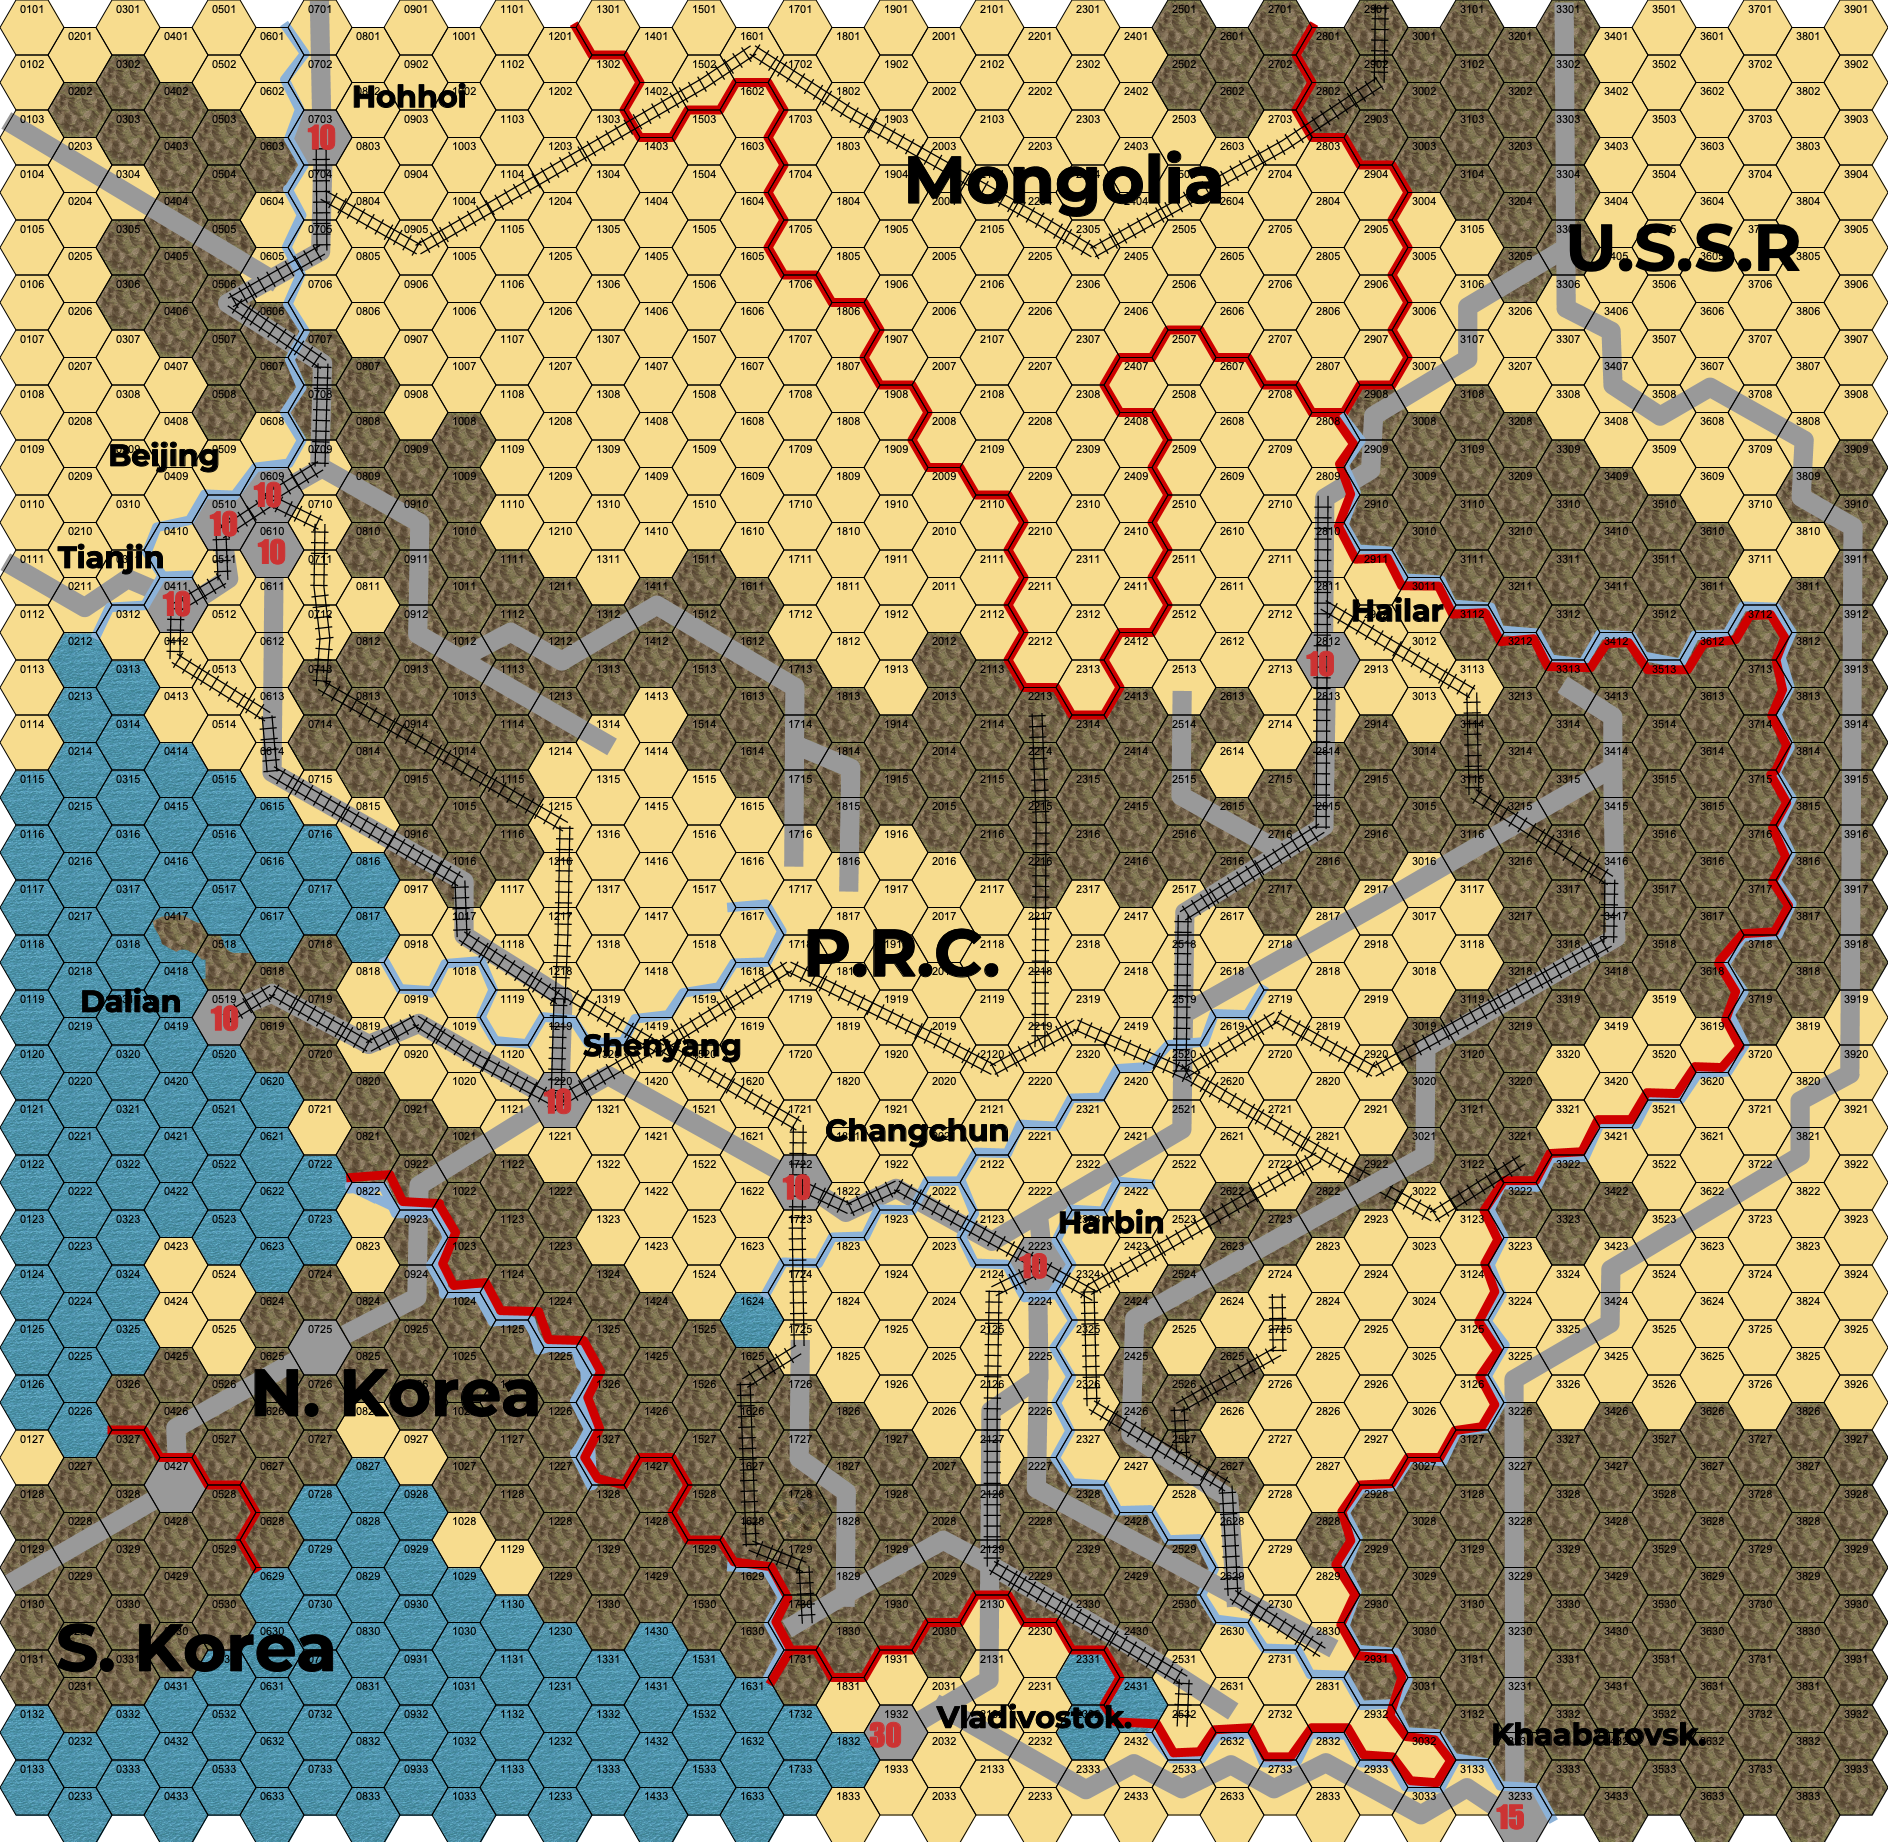
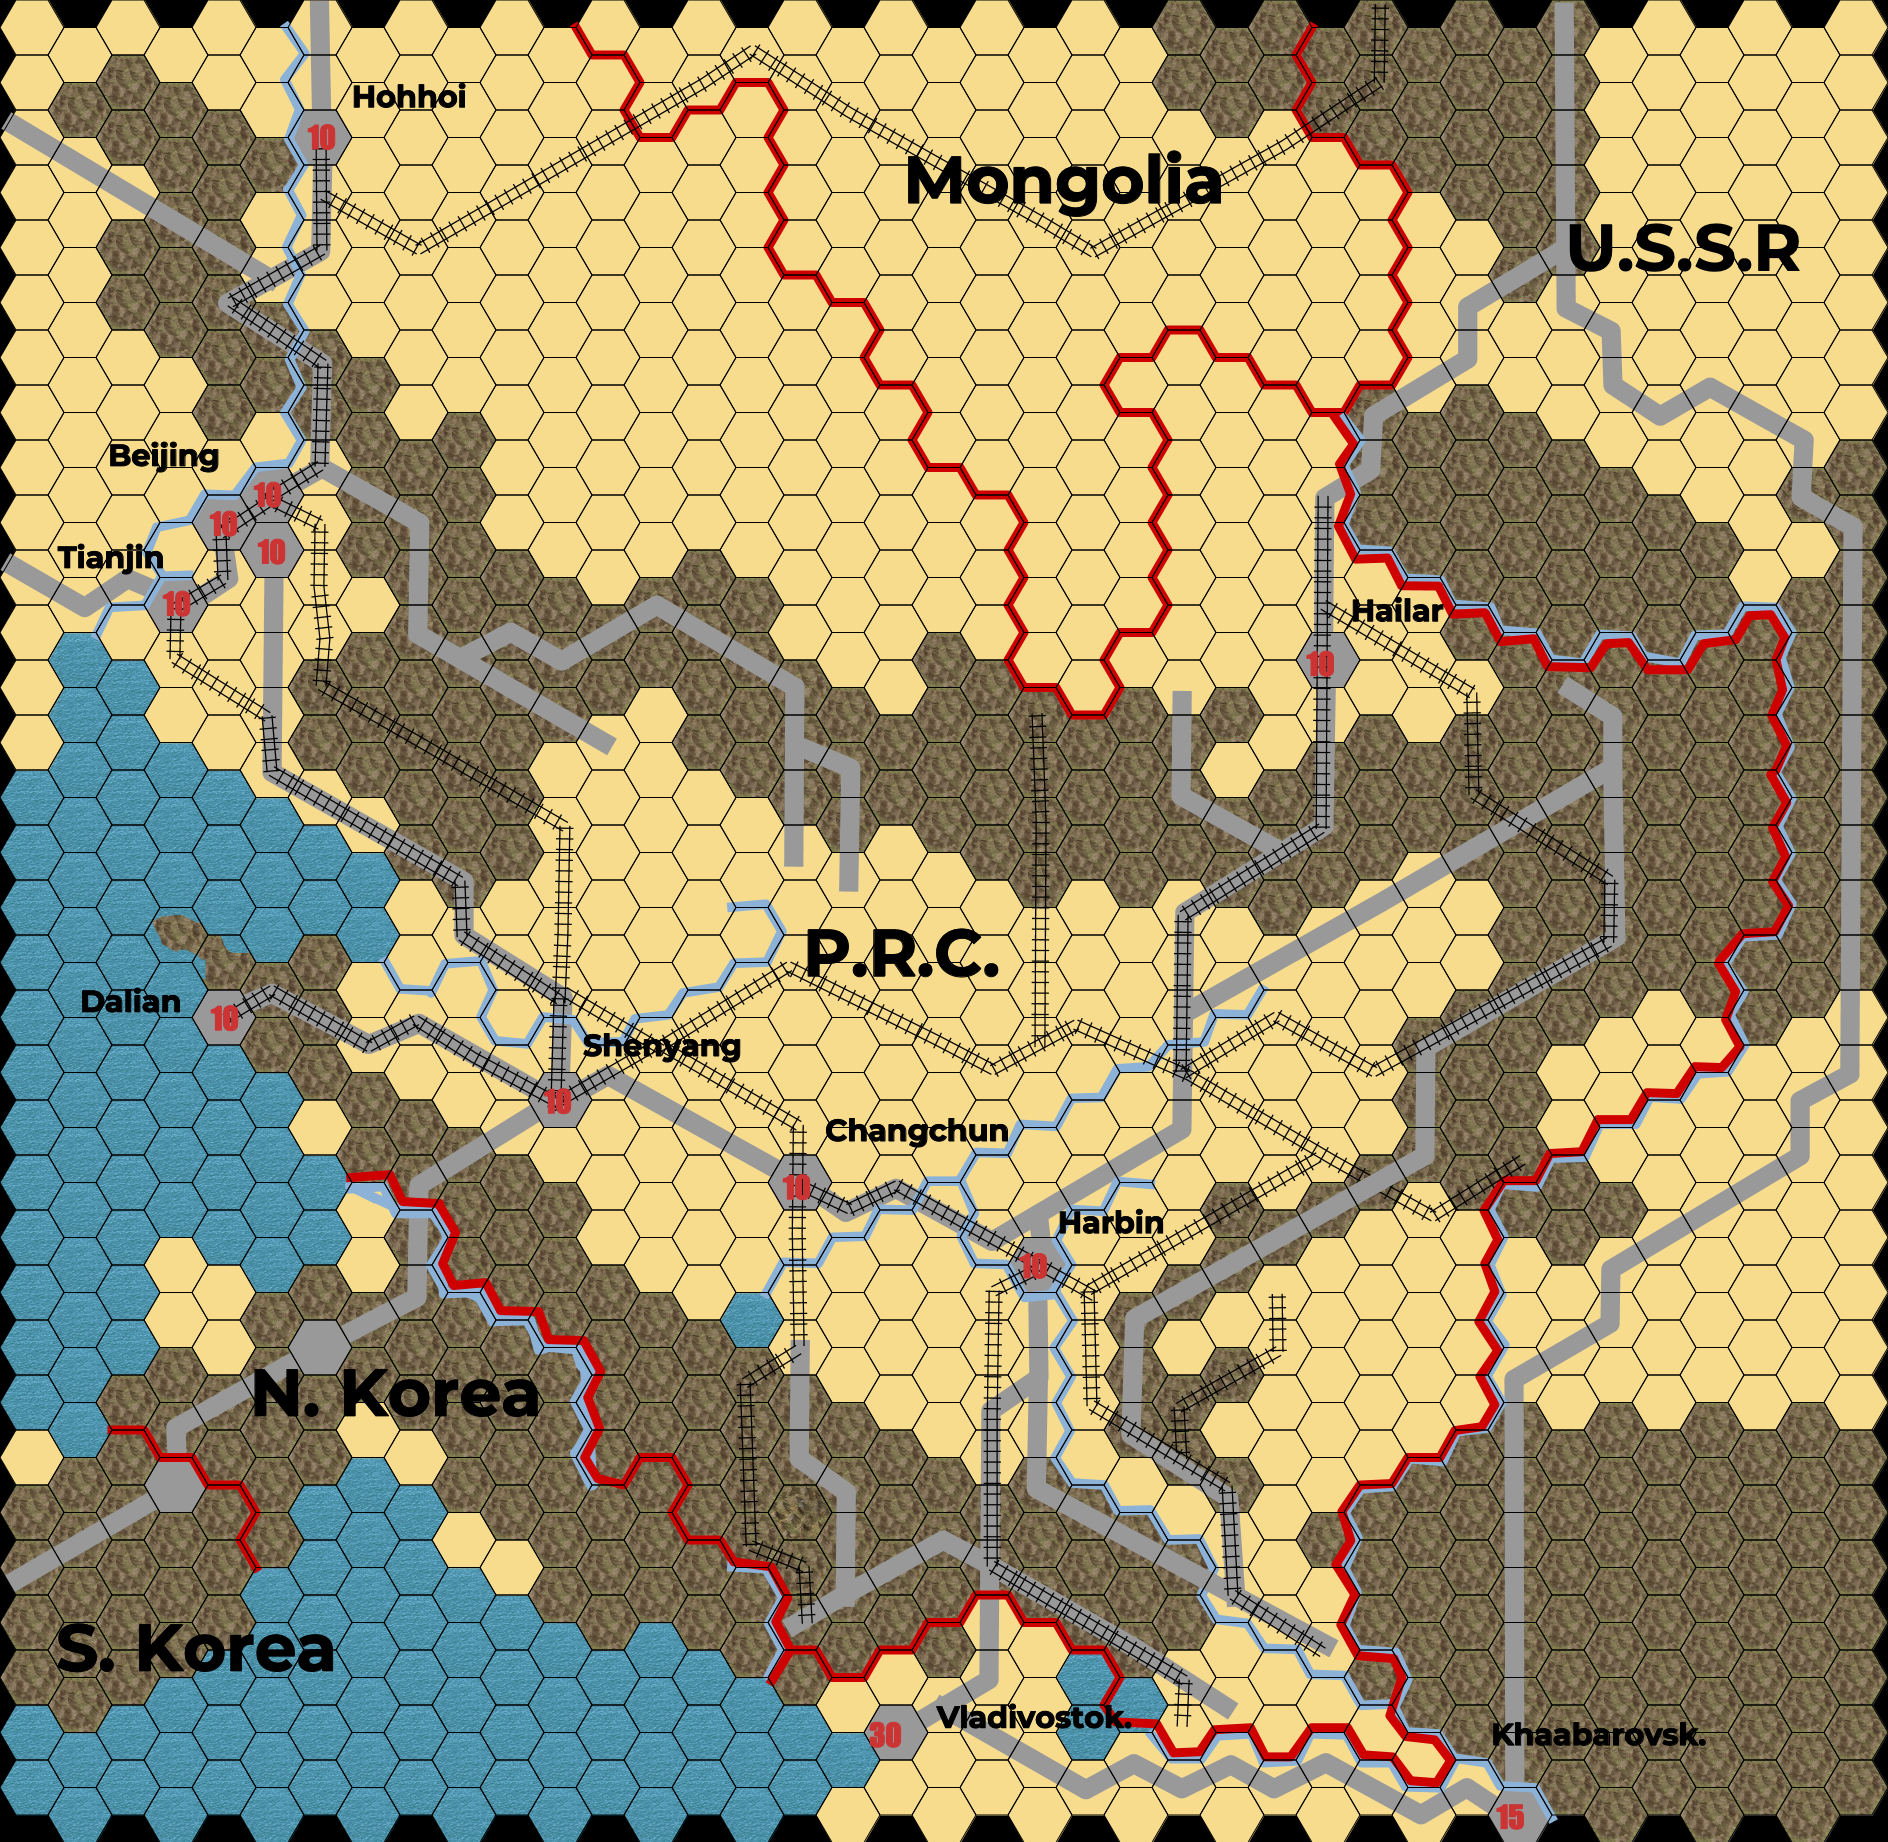
manchuria has real rail movement
fixed bug in tincans

Changed region(s): [[0.0, 0.0, 1.0, 1.0]]

diff --git a/Wargame/TMCW/NorthVsSouth/local.scss b/Wargame/TMCW/NorthVsSouth/local.scss
@@ -29,6 +29,25 @@
 #options-pane{
   display:none;
 }
+
+#main-viewer header#header #headerContent{
+  font-family: Montserrat, sans-serif;
+  .top-menu {
+    font-size:28px;
+    font-weight: 500;
+    .WrapperLabel {
+      font-weight: 500;
+    }
+  }
+  .dropDown .subMenu .dropDown{
+    font-weight:500;
+    font-size:22px;
+  }
+  #statusWrapper{
+    font-size:14px;
+  }
+}
+
 .cool-header {
   font-size: 22px;
   background: rgba(255, 255, 255, .9);
@@ -45,13 +64,8 @@
 }
 .cool-box {
   font-size: 22px;
-  background: rgba(255, 255, 255, .9);
-  border: 1px solid #333;
-  border-radius: 15px;
-  margin: 40px;
-  padding: 20px;
-  box-shadow: 10px 10px 10px rgba(20, 20, 20, .7);
-  margin: 0 auto;
+  background: white;
+  padding: 10px;
 }
 #floatMessage{
   display:block;

diff --git a/Wargame/TMCW/Chawinda1965/chawinda1965.scss b/Wargame/TMCW/Chawinda1965/chawinda1965.scss
@@ -24,6 +24,25 @@
 @include player(pakistani, Pakistani, $pakistaniColor);
 @include headerColor(Indian, $indianColor, $indianColor);
 @include headerColor(Pakistani, $pakistaniColor, $pakistaniColor);
+
+#main-viewer header#header #headerContent{
+  font-family: Montserrat, sans-serif;
+  .top-menu {
+    font-size:28px;
+    font-weight: 500;
+    .WrapperLabel {
+      font-weight: 500;
+    }
+  }
+  .dropDown .subMenu .dropDown{
+    font-weight:500;
+    font-size:22px;
+  }
+  #statusWrapper{
+    font-size:14px;
+  }
+}
+
 #crtWrapper #crt{
   width: 310px;
 }

diff --git a/Wargame/TMCW/Manchuria1976/Unit.php b/Wargame/TMCW/Manchuria1976/Unit.php
@@ -1,6 +1,6 @@
 <?php
 namespace Wargame\TMCW\Manchuria1976;
-
+use Wargame\Battle;
 /**
  * Copyright 2015 David Rodal
  * User: David Markarian Rodal
@@ -22,11 +22,38 @@ namespace Wargame\TMCW\Manchuria1976;
  */
 class Unit extends \Wargame\Unit implements \JsonSerializable
 {
+    public $saveMaxMove = false;
+    public $railMode = false;
+
     public    function set($unitId, $unitName, $unitForceId, $unitHexagon, $unitImage, $unitMaxStrength, $unitMinStrength, $unitMaxMove, $isReduced, $unitStatus, $unitReinforceZone, $unitReinforceTurn, $range, $nationality = "neutral", $forceMarch, $class, $unitDesig){
         parent::set($unitId, $unitName, $unitForceId, $unitHexagon, $unitImage, $unitMaxStrength, $unitMinStrength, $unitMaxMove, $isReduced, $unitStatus, $unitReinforceZone, $unitReinforceTurn, $range, $nationality, $forceMarch, $class, $unitDesig);
         if($this->class === 'gorilla'){
             $this->noZoc = true;
         }
+    }
+
+
+    public function railMove(bool $mode)
+    {
+        $b = Battle::getBattle();
+        $turn = $b->gameRules->turn;
+                if($this->railMode === false){
+                    if($b->terrain->terrainIsHex($this->hexagon->name, 'rr') && $this->forceId === Manchuria1976::PRC_FORCE){
+                        $this->saveMaxMove = $this->maxMove;
+                        $this->maxMove = 30;
+                        $this->forceMarch = true;
+                        $this->saveClass = $this->class;
+                        $this->class = "rr";
+                        $this->railMode = true;
+                        $b->moveRules->oneHex = false;
+                        return;
+                    }
+                }else{
+                    $b->moveRules->oneHex = true;
+                    $this->recover();
+                }
+            $this->forceMarch = true;
+
     }
 
     function getReplacing( $hexagon)
@@ -37,4 +64,14 @@ class Unit extends \Wargame\Unit implements \JsonSerializable
         }
         return false;
     }
+    public function recover(){
+        if($this->railMode){
+            $this->railMode = false;
+            $this->maxMove = $this->saveMaxMove;
+            $this->class = $this->saveClass;
+            $this->saveMaxMove = $this->saveClass = false;
+            $this->forceMarch = true;
+        }
+    }
+
 }

diff --git a/Wargame/Terrain.php b/Wargame/Terrain.php
@@ -429,7 +429,7 @@ class Terrain implements \JsonSerializable
 
         foreach ($terrains as $terrainFeature => $val) {
             /* @var TerrainFeature $feature */
-            if ($terrainFeature == "road" || $terrainFeature == "trail" || $terrainFeature == "secondaryroad") {
+            if ($terrainFeature == "road" || $terrainFeature == "trail" || $terrainFeature == "secondaryroad" || $terrainFeature == "rr") {
                 continue;
             }
 
@@ -551,13 +551,17 @@ class Terrain implements \JsonSerializable
 
         // if road, or trail,override terrain,  add fordCost where needed
         $terrainCode = $this->getTerrainCodeXY($hexsideX,$hexsideY);
-        if($railMove && (!empty($terrainCode->road) || !empty($terrainCode->trail) || !empty($terrainCode->ford) || !empty($terrainCode->secondaryroad))){
+        if($railMove && (!empty($terrainCode->road) || !empty($terrainCode->trail) || !empty($terrainCode->ford) || !empty($terrainCode->rr) || !empty($terrainCode->secondaryroad))){
             $roadCost = $this->getTerrainCodeUnitCost('road',$unit);
             $trailCost = $this->getTerrainCodeUnitCost('trail',$unit);
             $fordCost = $this->getTerrainCodeUnitCost('ford',$unit);
             $secondaryroad = $this->getTerrainCodeUnitCost('secondaryroad',$unit);
+            $rrCost = $this->getTerrainCodeUnitCost('rr',$unit);
 
             $moveCost = $roadCost;
+            if(!empty($terrainCode->rr)){
+                $moveCost = $rrCost;
+            }
             if(!empty($terrainCode->trail)){
                 $moveCost = $trailCost;
             }

diff --git a/Wargame/TMCW/Manchuria1976/Manchuria1976.php b/Wargame/TMCW/Manchuria1976/Manchuria1976.php
@@ -49,6 +49,8 @@ class Manchuria1976 extends \Wargame\ModernLandBattle
 
 
     function terrainGen($mapDoc, $terrainDoc){
+        $this->terrain->addTerrainFeature("rr", "rr", "r", .5, 0, 0, false);
+
         parent::TerrainGen($mapDoc, $terrainDoc);
         $this->terrain->addTerrainFeature("offmap", "offmap", "o", 1, 0, 0, true);
         $this->terrain->addTerrainFeature("blocked", "blocked", "b", 1, 0, 0, true);
@@ -59,6 +61,11 @@ class Manchuria1976 extends \Wargame\ModernLandBattle
         $this->terrain->addTerrainFeature("river", "Martian River", "v", 0, 1, 1, true);
         $this->terrain->addTerrainFeature("mountain", "mountain", "g", 1.5, 0, 2, true);
         $this->terrain->addAltEntranceCost('mountain', 'mech', 6);
+
+        $this->terrain->addAltEntranceCost("clear", 'rr', "blocked");
+        $this->terrain->addAltEntranceCost("mountain", 'rr', "blocked");
+        $this->terrain->addAltEntranceCost('road', 'rr', 100);
+        $this->terrain->addAltEntranceCost('rr', 'rr', 1);
 
     }
 

diff --git a/Wargame/NavalForce.php b/Wargame/NavalForce.php
@@ -114,6 +114,7 @@ class NavalForce extends Force
         $battle = Battle::getBattle();
         $victory = $battle->victory;
         $victory->preRecoverUnits();
+        $this->anyCombatsPossible = false;
         for ($id = 0; $id < count($this->units); $id++) {
             /* @var $unit NavalUnit */
             $unit = $this->units[$id];
@@ -160,6 +161,7 @@ class NavalForce extends Force
                             }
                             $status = STATUS_UNAVAIL_THIS_PHASE;
                             if ($unit->forceId == $this->attackingForceId && ($this->unitIsInRange($id))) {
+                                $this->anyCombatsPossible = true;
                                 $status = STATUS_READY;
                             }
                         }

diff --git a/Wargame/BfsCalcMovesTrait.php b/Wargame/BfsCalcMovesTrait.php
@@ -704,7 +704,7 @@ trait BfsCalcMovesTrait
                     continue;
                 }
                 if (!($this->terrain->terrainIsHexSide($hexNum, $newHexNum, "road") || $this->terrain->terrainIsHexSide($hexNum, $newHexNum, "trail")
-                    || $this->terrain->terrainIsHexSide($hexNum, $newHexNum, "secondaryroad"))) {
+                    || $this->terrain->terrainIsHexSide($hexNum, $newHexNum, "rr") || $this->terrain->terrainIsHexSide($hexNum, $newHexNum, "secondaryroad"))) {
                     continue;
                 }
 

diff --git a/Wargame/TMCW/Manchuria1976/victoryCore.php b/Wargame/TMCW/Manchuria1976/victoryCore.php
@@ -336,6 +336,11 @@ class victoryCore extends \Wargame\TMCW\victoryCore
                 $battle->moveRules->exitZoc = 1;
                 $battle->moveRules->noZocZoc = false;
             }
+            if($unit->railMode){
+                $battle->moveRules->oneHex = false;
+            }else{
+                $battle->moveRules->oneHex = true;
+            }
         }
     }
 
